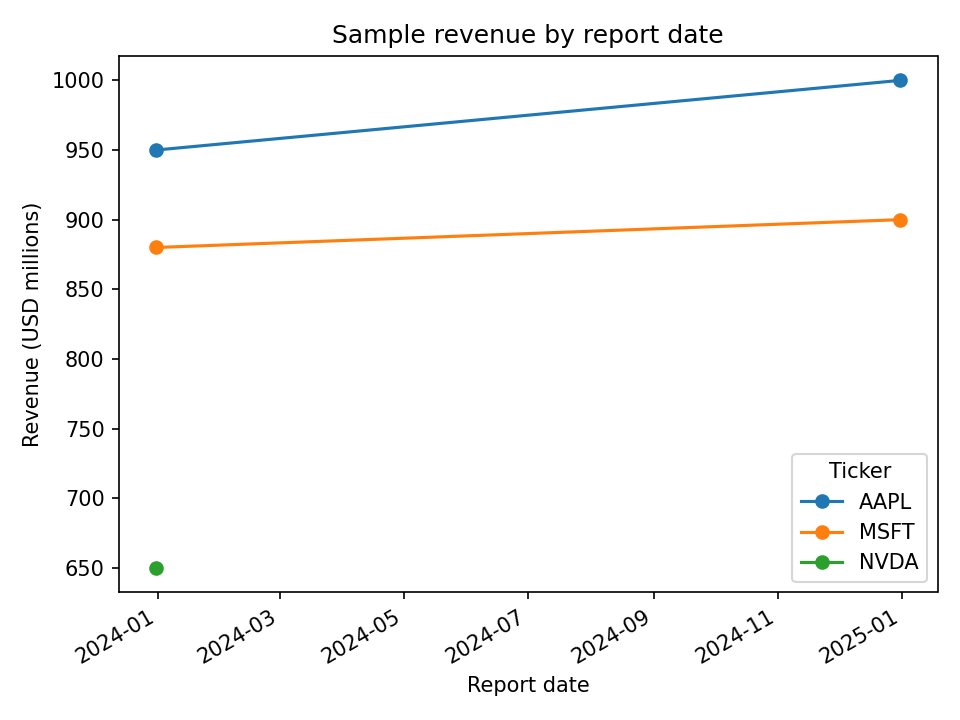
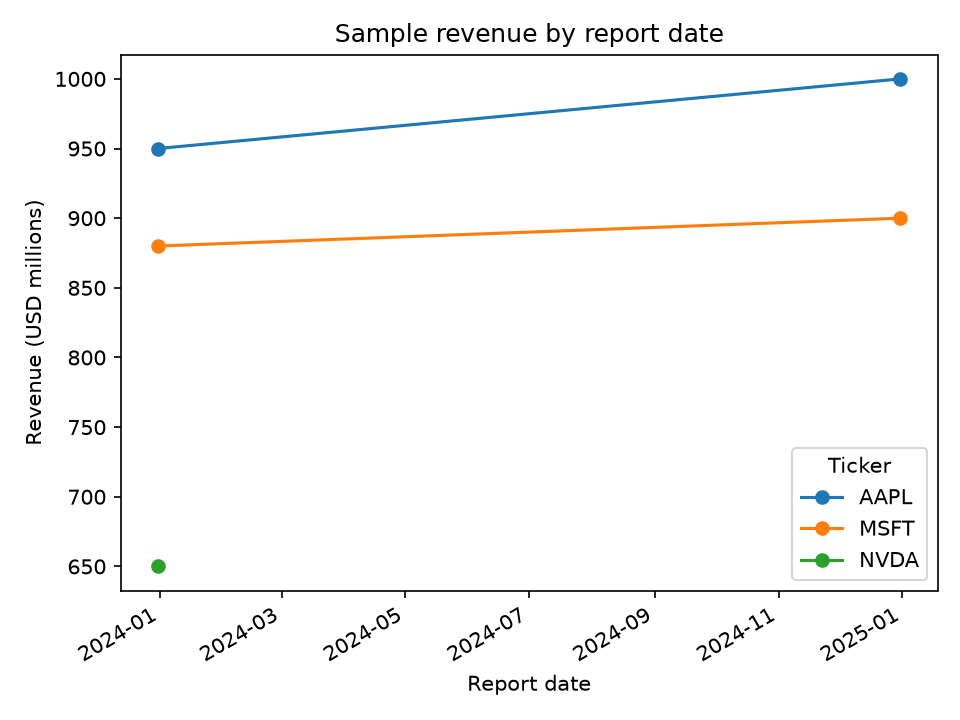
fix: support conda notebook execution

diff --git a/tests/test_notebook_regressions.py b/tests/test_notebook_regressions.py
@@ -4,9 +4,11 @@ import ast
 from contextlib import redirect_stdout
 import io
 import json
+import os
 from pathlib import Path
 import re
 import unittest
+from unittest.mock import patch
 import numpy as np
 import pandas as pd
 
@@ -55,6 +57,35 @@ class NotebookChecks(unittest.TestCase):
             source='\n'.join(''.join(c['source']) for c in notebook(name)['cells'])
             self.assertNotIn('APPL',source)
             self.assertIn('AAPL',source)
+
+    def test_sec_setup_requires_configured_contact_without_prompting(self):
+        contact = 'student@example.test'
+        for name in ['07_sec_structure_apple.ipynb', '08_sec_apple_metric.ipynb']:
+            for configured in [False, True]:
+                with self.subTest(notebook=name, configured=configured):
+                    values = {'SEC_CONTACT_EMAIL': contact} if configured else {}
+                    output = io.StringIO()
+                    with (
+                        patch.dict(os.environ, values, clear=True),
+                        patch('dotenv.load_dotenv', return_value=False) as load_env,
+                        patch('builtins.input', side_effect=AssertionError('Unexpected prompt')),
+                        patch('getpass.getpass', side_effect=AssertionError('Unexpected prompt')),
+                        patch('requests.sessions.Session.request', side_effect=AssertionError('Unexpected network')),
+                        patch('urllib.request.urlopen', side_effect=AssertionError('Unexpected network')),
+                        redirect_stdout(output),
+                    ):
+                        env = {'project_root': ROOT, 'os': os, 'load_dotenv': load_env}
+                        if configured:
+                            exec(cell(name, 3), env)
+                            self.assertEqual(
+                                env['sec_headers']['User-Agent'],
+                                f'U.S. Financial Research Project {contact}',
+                            )
+                        else:
+                            with self.assertRaisesRegex(ValueError, 'SEC_CONTACT_EMAIL'):
+                                exec(cell(name, 3), env)
+                            self.assertNotIn('sec_headers', env)
+                    self.assertNotIn(contact, output.getvalue())
 
     def test_fred_mask_preview(self):
         env={'json':json,'fred_api_key':'synthetic_not_a_real_key'}

diff --git a/README.md b/README.md
@@ -1,75 +1,101 @@
 # U.S. Financial Research
 
-A small research project combining SEC company financials with FRED macroeconomic data. It follows Apple, Microsoft, JPMorgan Chase, Tesla and Walmart across their fiscal periods, with source metadata and coverage checks kept alongside the numbers.
+A research project combining SEC company financials with FRED macroeconomic data. It follows Apple, Microsoft, JPMorgan Chase, Tesla and Walmart across their fiscal periods, with source metadata and coverage checks kept alongside the numbers.
 
-The current workflow collects the source data, builds a panel for each company and fiscal year and compares financial results with macro conditions. The saved annual panel is descriptive; the Numerai Signals extension is separate work.
+The annual panel is descriptive. The Numerai Signals extension builds a separate forecasting workflow.
 
-## Run locally
+## Set up with conda
 
-From the project root in PowerShell:
+From the project root in a macOS terminal:
 
-```powershell
-python -m venv .venv
-.\.venv\Scripts\python.exe -m pip install -r requirements.txt
-.\.venv\Scripts\python.exe scripts/check_project.py
+```bash
+conda env create -f environment.yml
+conda activate financial-research
+python -m pip check
+python -m ipykernel install --sys-prefix --name financial-research --display-name "Python (financial-research)"
 ```
 
-The check uses saved files and does not contact SEC or FRED. It also recomputes the saved fiscal-period macro summaries. Run the offline regression tests with:
+The environment uses Python 3.12. `requirements.txt` pins the direct research and competition packages; pip resolves their dependencies for the current platform. If you already use a Python 3.12 conda environment, activate it and run `python -m pip install -r requirements.txt` instead of creating another one. Register the kernel in that active environment with the command above.
 
-```powershell
-.\.venv\Scripts\python.exe -m unittest discover -s tests -v
+## Configure API access
+
+Notebooks 05 and 06 need `FRED_API_KEY`. Notebooks 07 and 08 need `SEC_CONTACT_EMAIL` for the SEC User-Agent. Set them in a local `.env` file using the names in `.env.example`:
+
+```bash
+[ -f .env ] || cp .env.example .env
+open -e .env
 ```
 
-To rebuild the macro chart from the saved CSV:
+Fill in both values before running the API notebooks. Keep `.env` local; it is excluded from Git. These notebooks make live requests, so they also need an internet connection. A missing setting raises an error before requesting data.
 
-```powershell
-.\.venv\Scripts\python.exe scripts/plot_macro.py
+## Run all notebooks
+
+Run the notebooks in number order. In VS Code or Jupyter, select `Python (financial-research)` and use Run All for each notebook. The same sequence can run from the terminal:
+
+```bash
+python -m nbconvert --to notebook --execute \
+  --ExecutePreprocessor.kernel_name=financial-research \
+  --output-dir TEMP/executed \
+  notebooks/0[1-9]_*.ipynb
 ```
 
-Open `notebooks/09_company_macro_merge.ipynb` in Jupyter or VS Code, select the same environment, restart the kernel and run all cells to rebuild `data/company_macro_panel.csv`. The notebook reads the two saved source CSVs. The earlier numbered notebooks contain the Python, pandas and API exercises used to build this workflow; the API exercises need network access and local credentials.
+This runs every code cell from 01 through 09, including the live requests in 05 through 08. Execution stops on an error. The executed copies, tables and plots are saved in `TEMP/executed/`. Source notebooks keep their outputs clear for Git.
 
-If `nbconvert` is installed, the merge can also run from the terminal:
+| Notebook | Work | Result |
+|---|---|---|
+| `01_python_basics.ipynb` | Python values and control flow | Printed examples |
+| `02_pandas_dataframe.ipynb` | DataFrame filtering and CSV I/O | `data/sample_cleaned.csv` |
+| `03_datetime_missing_values.ipynb` | Dates, numeric conversion and missing values | Tables and checks |
+| `04_basic_charts.ipynb` | Revenue and operating-income charts | `assets/basic_chart.png` and notebook plots |
+| `05_api_json_fred_intro.ipynb` | Live FRED request and JSON structure | Five UNRATE observations from 2023 |
+| `06_fred_unrate.ipynb` | UNRATE collection, validation and plotting | `data/unrate.csv`, 72 months from 2019 through 2024 |
+| `07_sec_structure_apple.ipynb` | Apple identifiers, filings and companyfacts | SEC response tables |
+| `08_sec_apple_metric.ipynb` | Annual Apple revenue and net income | `data/apple_financials.csv`, 5 rows and 19 columns |
+| `09_company_macro_merge.ipynb` | Company financials joined to fiscal-period macro summaries | `data/company_macro_panel.csv`, 25 rows and 56 columns |
 
-```powershell
-.\.venv\Scripts\python.exe -m jupyter nbconvert --to notebook --execute --inplace notebooks/09_company_macro_merge.ipynb
-.\.venv\Scripts\python.exe scripts/check_project.py
+To rerun only notebook 08:
+
+```bash
+python -m nbconvert --to notebook --execute \
+  --ExecutePreprocessor.kernel_name=financial-research \
+  --output-dir TEMP/executed \
+  notebooks/08_sec_apple_metric.ipynb
 ```
 
-## Refresh source data
+Notebook 09 reads `company_financials.csv` and `macro_data.csv`. It does not read the Apple-only CSV from notebook 08. Those two source files are included, so notebook 09 can also run without API access.
 
-The collectors use `FRED_API_KEY` and `SEC_CONTACT_EMAIL` from the project's local `.env`. The required names are listed in `.env.example`. Keep credentials and contact details out of version control.
+## Collect the five-company data
 
-```powershell
-.\.venv\Scripts\python.exe src/fred_api.py
-.\.venv\Scripts\python.exe src/sec_api.py
+The collectors produce the source files used by notebook 09:
+
+```bash
+python src/fred_api.py
+python src/sec_api.py
+python -m nbconvert --to notebook --execute \
+  --ExecutePreprocessor.kernel_name=financial-research \
+  --output-dir TEMP/executed \
+  notebooks/09_company_macro_merge.ipynb
 ```
 
-These commands collect data and write the source CSVs. Responses are cached in `data/cache/`; `--refresh` requests fresh responses. Add `--verbose` when you need collection diagnostics. The configured periods are 2019-2024 for FRED and fiscal years 2021-2025 for company financials. After refreshing, rerun the merge and check the coverage before interpreting the panel.
+Responses are cached in `data/cache/`. Use `--refresh` on a collector to request new responses, or `--verbose` for collection diagnostics. The configured periods are 2019-2024 for FRED and fiscal years 2021-2025 for company financials. Rerun notebook 09 after changing either source CSV.
 
-## Files
+## Check the result
 
-| Location | Contents |
-|---|---|
-| `src/fred_api.py` | FRED collection, validation and caching |
-| `src/sec_api.py` | SEC companyfacts collection and financial-period checks |
-| `data/macro_data.csv` | Five macro series joined on observation date |
-| `data/company_financials.csv` | Annual financials and filing metadata for five companies |
-| `data/company_macro_panel.csv` | Financials joined to macro summaries over each fiscal period |
-| `notebooks/09_company_macro_merge.ipynb` | Panel construction and descriptive analysis |
-| `docs/company_list.md` | Company selection, CIKs and revenue concepts |
-| `docs/data_dictionary.md` | Fields, units, coverage and interpretation limits |
-| `assets/` | Saved charts |
+```bash
+python scripts/check_project.py
+python scripts/plot_macro.py
+python -m src.signals validate-config
+python -m unittest discover -s tests -v
+```
 
-The [data dictionary](docs/data_dictionary.md) explains the mixed frequencies, fiscal calendars and incomplete macro coverage. Do not treat the annual panel as information that was necessarily available at a historical prediction date.
+The saved-data check recomputes the panel summaries without contacting SEC or FRED. The included panel has macro coverage of 20 complete, 3 partial and 2 missing rows. The chart is saved to `assets/macro_charts.png`.
+
+The [company list](docs/company_list.md) explains the CIKs and revenue concepts. The [data dictionary](docs/data_dictionary.md) describes the fields, fiscal calendars and incomplete coverage. A fiscal-period value was not necessarily public at a historical prediction date.
 
 ## Numerai Signals
 
-The forecasting extension currently defines the dataset, target, feature availability policy and submission constraints in `config/signals.json`. Validate the configuration with:
+`config/signals.json` defines the dataset, target, feature availability policy and submission constraints. Configuration validation and the research environment are implemented. Competition data ingestion and model evaluation are the next steps; their commands are not available yet.
 
-```powershell
-.\.venv\Scripts\python.exe -m src.signals validate-config
-```
-
-An isolated competition environment, data ingestion and model evaluation are the next steps. Label calendar resolution is still pending. The annual research panel needs historical filing availability before it can supply prediction features, and macro inputs remain disabled until source use is resolved.
+Label calendar resolution is pending. Historical filing availability must be reconstructed before using the annual research data as prediction features, and macro inputs remain disabled until source use is resolved.
 
 See [Signals data](https://docs.numer.ai/numerai-signals/data) and the [target definition](https://docs.numer.ai/numerai-signals/signals-overview).
